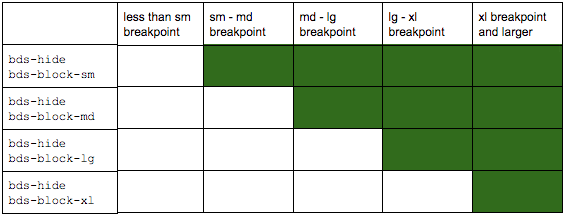
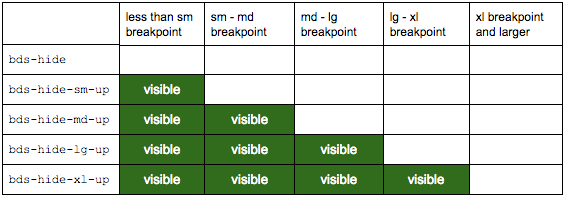
updated hiding classes

diff --git a/design_system/index.html b/design_system/index.html
@@ -392,6 +392,13 @@
                   </div>
                 </div>
               </div>
+              <div>
+                <div class="bds-bg-green-65 bds-inline-block">
+                  <div class="bds-marg-all-xxl bds-bg-white">
+                    *-all-xxl
+                  </div>
+                </div>
+              </div>
               <div></div>
             </div>
 
@@ -674,9 +681,9 @@
           <!-- hiding and showing -->
             
           <section id="hideshow">
-            <h2 class="bds-marg-b-xxs"><a name="hideshow">Hide/Show</a></h2>
+            <h2 class="bds-marg-b-xxs"><a name="hideshow">Hiding</a></h2>
             <div class="bds-marg-y-sm">
-              Hide/shows should be a WRAPPER (parent) classes to prevent conflicts with elements 
+              To avoid any conflicts, hide classes should be wrappers (aka a parent element)
             </div>
 
             <div class="bds-row">
@@ -684,30 +691,44 @@
                 <u>Hiding</u>: 
                   <ul>
                     <li>bds-hide</li>
-                    <li>bds-hide-sm</li>
-                    <li>bds-hide-md</li>
-                    <li>bds-hide-lg</li>
-                    <li>bds-hide-xl</li>
-                  </ul>
+                    <li>bds-hide-sm-up</li>
+                    <li>bds-hide-md-up</li>
+                    <li>bds-hide-lg-up</li>
+                    <li>bds-hide-xl-up</li>
+                </ul>
+              </div>
+              <div class="bds-col"><br><br>
+                <ul>
+                  <li>bds-hide-sm-down</li>
+                  <li>bds-hide-md-down</li>
+                  <li>bds-hide-lg-down</li>
+                  <li>bds-hide-xl-down</li>
+                </ul>
               </div>
 
               <div class="bds-col">
-                <u>Showing</u>: 
+                <u>Display Options</u>: 
                   <ul>
+                    <li>bds-block</li>
                     <li>bds-block-sm</li>
                     <li>bds-block-md</li>
                     <li>bds-block-lg</li>
                     <li>bds-block-xl</li>
-                    <li>bds-inline-block-sm</li>
-                    <li>bds-inline-block-md</li>
-                    <li>bds-inline-block-lg</li>
-                    <li>bds-inline-block-xl</li>
                   </ul>
+              </div>
+              <div class="bds-col"><br>
+                <ul>
+                    <li>bds-inline-block</li>
+                  <li>bds-inline-block-sm</li>
+                  <li>bds-inline-block-md</li>
+                  <li>bds-inline-block-lg</li>
+                  <li>bds-inline-block-xl</li>
+                </ul>
               </div>
             </div>
             <img src="hide-show-chart.png"><br>
             <img src="hide-show-chart2.png">
-
+<!-- 
 
             <div class="bds-b3 bds-marg-t-xs"><i>re-size browser or use emulator to see how the hide shows work on different breakpoints</i></div>
             <div class="showHideChart bds-txt-11 bds-flex">
@@ -754,7 +775,7 @@
                 </div>
               </div>
             </div>
-
+ -->
 
 
 
@@ -776,6 +797,12 @@
                   <u>Solution</u>: class="bds-hide bds-block-lg"<br><br>
                   <div class="bds-border-grey-65 bds-pad-all-xs">
                     <div class="bds-hide bds-block-lg bds-bg-purple-65 bds-marg-all-sm">
+                      This is showing on the large breakpoint
+                    </div>
+                  </div><br>
+                  <u>Solution2</u>: class="bds-hide-lg-down"<br>
+                  <div class="bds-border-grey-65 bds-pad-all-xs">
+                    <div class="bds-hide-lg-down bds-bg-purple-65 bds-marg-all-sm">
                       This is showing on the large breakpoint
                     </div>
                   </div>

diff --git a/design_system/_utility.scss b/design_system/_utility.scss
@@ -80,7 +80,7 @@
 
 @media screen and (min-width: $sm-bkpt)  {
   .bds-show-at-sm { display: block; }
-  .bds-hide-at-sm { display: none; }
+  .bds-hide-at-sm, .bds-hide-sm-up { display: none; }
 
   .bds-block-sm { display: block !important; }
   .bds-inline-block-sm { display: inline-block !important; }
@@ -89,7 +89,7 @@
 
 @media screen and (min-width: $md-bkpt)  {
   .bds-show-at-md { display: block; }
-  .bds-hide-at-md { display: none; }
+  .bds-hide-at-md, .bds-hide-md-up { display: none; }
 
   .bds-block-md { display: block !important; }
   .bds-inline-block-md { display: inline-block !important; }
@@ -98,7 +98,7 @@
 
 @media screen and (min-width: $lg-bkpt)  {
   .bds-show-at-lg { display: block; }
-  .bds-hide-at-lg { display: none; }
+  .bds-hide-at-lg, .bds-hide-lg-up { display: none; }
   .bds-absolute-at-lg { position: absolute; }
   .bds-x-center-at-lg {
     left: 50%;
@@ -113,11 +113,30 @@
 
 @media screen and (min-width: $xl-bkpt)  {
   .bds-show-at-xl { display: block; }
-  .bds-hide-at-xl { display: none; }
+  .bds-hide-at-xl, .bds-hide-xl-up { display: none; }
 
   .bds-block-xl { display: block !important; }
   .bds-inline-block-xl { display: inline-block !important; }
   .bds-hide-xl{ display: none !important; }
+}
+
+@media screen and (min-width: $xl-bkpt)  {
+  .bds-show-at-xl { display: block; }
+  .bds-hide-at-xl { display: none; }
+  .bds-hide-xl-up { display: none; }
+}
+
+@media screen and (max-width: $sm-bkpt)  {
+  .bds-hide-sm-down { display: none; }
+}
+@media screen and (max-width: $md-bkpt)  {
+  .bds-hide-md-down { display: none; }
+}
+@media screen and (max-width: $lg-bkpt)  {
+  .bds-hide-lg-down { display: none; }
+}
+@media screen and (max-width: $xl-bkpt)  {
+  .bds-hide-xl-down { display: none; }
 }
 
 

diff --git a/design_system/style.css b/design_system/style.css
@@ -1662,7 +1662,7 @@ h6,
   .bds-show-at-sm {
     display: block; }
 
-  .bds-hide-at-sm {
+  .bds-hide-at-sm, .bds-hide-sm-up {
     display: none; }
 
   .bds-block-sm {
@@ -1677,7 +1677,7 @@ h6,
   .bds-show-at-md {
     display: block; }
 
-  .bds-hide-at-md {
+  .bds-hide-at-md, .bds-hide-md-up {
     display: none; }
 
   .bds-block-md {
@@ -1692,7 +1692,7 @@ h6,
   .bds-show-at-lg {
     display: block; }
 
-  .bds-hide-at-lg {
+  .bds-hide-at-lg, .bds-hide-lg-up {
     display: none; }
 
   .bds-absolute-at-lg {
@@ -1714,7 +1714,7 @@ h6,
   .bds-show-at-xl {
     display: block; }
 
-  .bds-hide-at-xl {
+  .bds-hide-at-xl, .bds-hide-xl-up {
     display: none; }
 
   .bds-block-xl {
@@ -1725,6 +1725,27 @@ h6,
 
   .bds-hide-xl {
     display: none !important; } }
+@media screen and (min-width: 1200px) {
+  .bds-show-at-xl {
+    display: block; }
+
+  .bds-hide-at-xl {
+    display: none; }
+
+  .bds-hide-xl-up {
+    display: none; } }
+@media screen and (max-width: 480px) {
+  .bds-hide-sm-down {
+    display: none; } }
+@media screen and (max-width: 768px) {
+  .bds-hide-md-down {
+    display: none; } }
+@media screen and (max-width: 992px) {
+  .bds-hide-lg-down {
+    display: none; } }
+@media screen and (max-width: 1200px) {
+  .bds-hide-xl-down {
+    display: none; } }
 .bds-cursor-pointer {
   cursor: pointer; }
 
